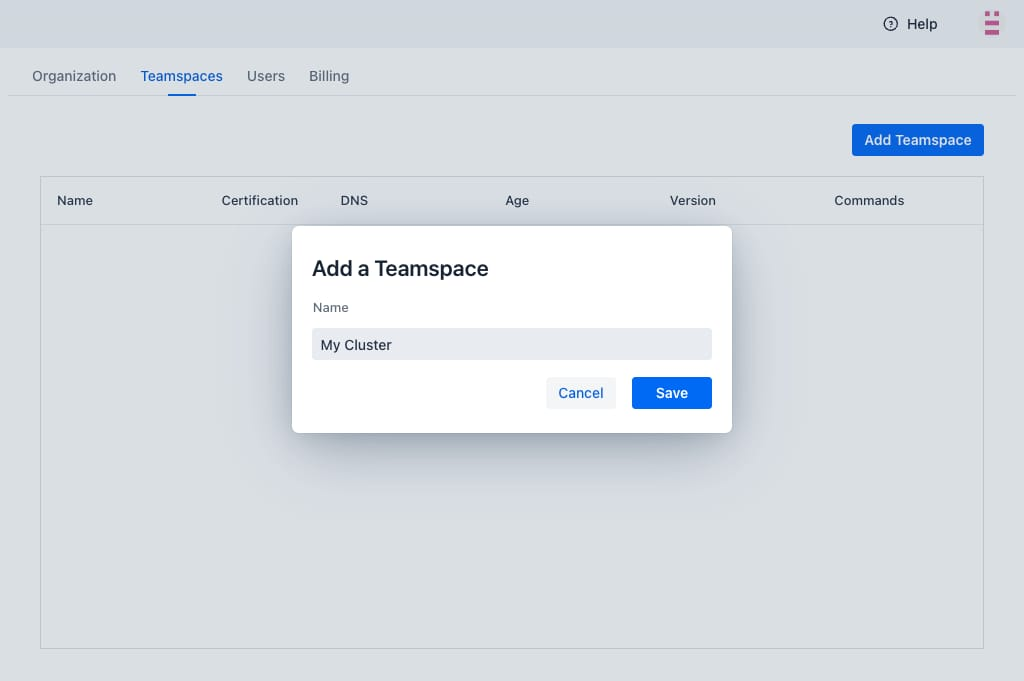
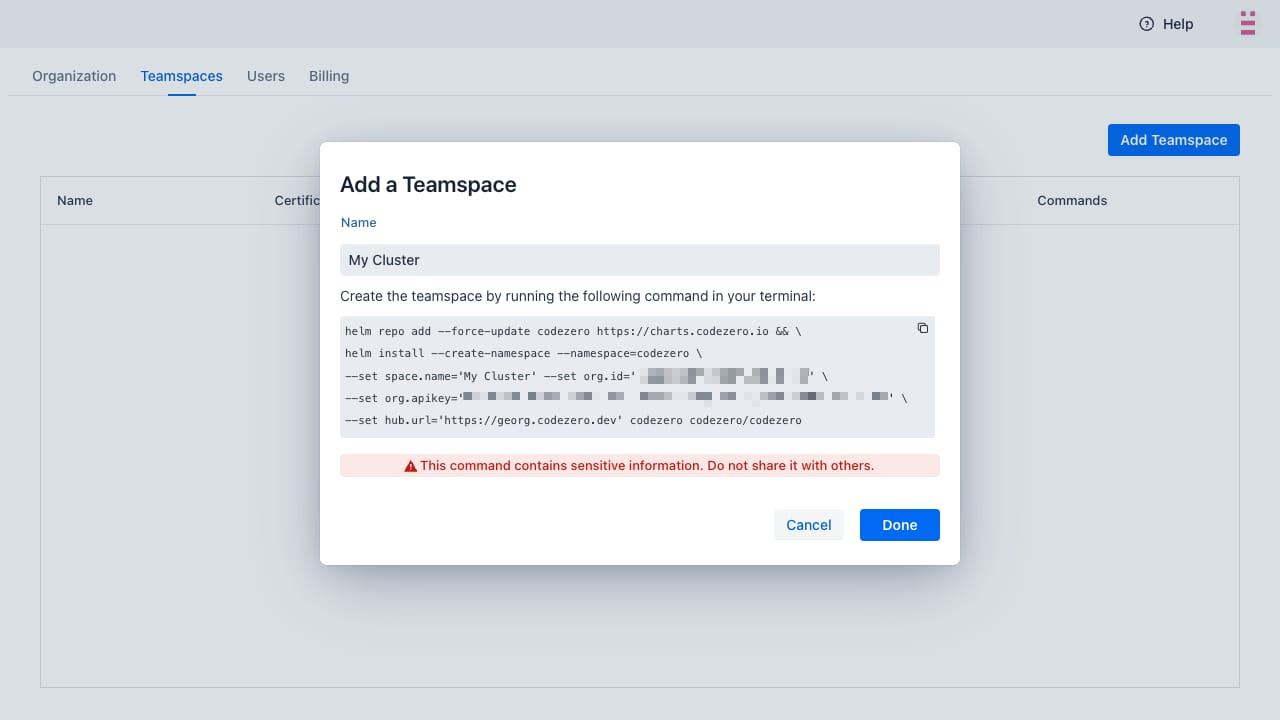
add release notes for 2.5.0

diff --git a/docusaurus.config.js b/docusaurus.config.js
@@ -52,7 +52,7 @@ const config = {
           lastVersion: "current",
           versions: {
             current: {
-              label: "v2.4",
+              label: "v2.5",
             },
           },
           routeBasePath: "/",

diff --git a/docs/guides/teamspace-setup.md b/docs/guides/teamspace-setup.md
@@ -12,17 +12,15 @@ Sign up or log in to the [Codezero Hub](https://hub.codezero.io). The onboarding
 
 The Hub allows you to register and certify Teamspaces. This is also where you can invite and administer members of the Teamspace. While the Hub provides a graphical user interface equivalent to the `czctl` command line tool, all services either run on your local machine or in the Kubernetes cluster.
 
-## Register a Teamspace on Hub
+## Install Codezero in your Cluster
 
-On the Profile menu, click on _Settings_ and then select _Teamspaces_. Click _Add Teamspace_ to name and register your Teamspace name.
+On the Profile menu, click on _Settings_ and then select _Teamspaces_. Click _Add Teamspace_ to create the installation command.
 
 ![Teamspace Create](./_media/ts-create.jpg)
 
-## Install Codezero in your Cluster
-
-After registering your Teamspace you need to install the _Codezero System_ onto a Kubernetes cluster. Click on _Helm Install_ to copy the Helm install command. This install command is unique to your cluster. It includes a one-time token that is exchanged with the Hub to certify the Teamspace.
-
-![Install Codezero](./_media/ts-helm.jpg)
+This install command contains your organization's API key. Please keep it confidential.
+It uses [Helm](https://helm.sh) to install the Codezero Space Agent. You can find the Helm charts on [GitHub](https://github.com/c6o/helm-charts).
+Additional annotations may be necessary; refer to the section on Load balancer requirements below.
 
 ### Load balancer requirements
 
@@ -46,7 +44,6 @@ import TabItem from '@theme/TabItem';
                 service.beta.kubernetes.io/aws-load-balancer-scheme: "internet-facing"
     ```
 
-
 </TabItem>
 <TabItem value="gke" label="GKE" default>
     Google Kubernetes Engine creates external Network Load Balancers by default.
@@ -55,8 +52,6 @@ import TabItem from '@theme/TabItem';
     Codezero will rely on the default behaviour provided by the cluster.
 </TabItem>
 </Tabs>
-
-
 
 ## Certification
 
@@ -74,46 +69,23 @@ Codezero may be removed from the Kubernetes cluster at any time. It is recommend
 
 To uninstall, run:
 
-```bash
-helm -n codezero uninstall codezero
-```
+    ```bash
+    helm -n codezero uninstall codezero
+    ```
 
 You can then go into the Hub and delete the Teamspace.
 
 ## Troubleshooting
 
-### Rotate Certificate
-
-Should you encounter any issues with the _Helm Install_, you cannot re-use the previously generated install string as the one-time token will have expired. To re-try, please:
-
-1. Run `helm uninstall -n codezero codezero`
-1. Select _Rotate Certificate_ from the commands menu
-1. Click on _Helm Install_ link when it appears and try again
-
-If you continue to encounter problems, please do not hesitate to reach out to us.
-
-![Teamspace Install](./_media/ts-rotate.jpg)
-
 ### Upgrade Cluster / Codezero Space Agent
 
 Occasionally a new Codezero release requires you to Update your Codezero Space Agent (also referred to as Upgrade your Cluster)
 
-To update your Codezero Space Agent, follow these steps:
+To update your Codezero Space Agent, run the following command:
 
-1. Log in to [Codezero Hub](https://hub.codezero.io).
-2. Select your Teamspace in the top-left corner
-3. Navigate to Settings > Teamspaces
-4. Click the
-   <svg xmlns="http://www.w3.org/2000/svg" class="icon icon-tabler icon-tabler-circle-arrow-up" width="24" height="24" viewBox="0 -2 24 24" stroke-width="2" stroke="currentColor" fill="none" stroke-linecap="round" stroke-linejoin="round">
-       <path stroke="none" d="M0 0h24v24H0z" fill="none"></path>
-       <path d="M3 12a9 9 0 1 0 18 0a9 9 0 0 0 -18 0"></path><path d="M12 8l-4 4"></path>
-       <path d="M12 8v8"></path>
-       <path d="M16 12l-4 -4"></path>
-   </svg>
-   icon next to the version number of your Teamspace to copy the Helm upgrade command.
-5. Run the command and then sign out and sign in again.
-
-![Upgrade Space Agent](../_media/upgrade-cluster.jpg)
+    ```bash
+    helm repo add --force-update codezero https://charts.codezero.io && helm upgrade --namespace=codezero codezero codezero/codezero`
+    ```
 
 ### Stuck _Waiting_ for DNS
 

diff --git a/docs/references/changelog.md b/docs/references/changelog.md
@@ -7,6 +7,13 @@ sidebar_position: 3
 We have a regular 2 week release cadence.
 NOTE: Please make sure that you update your Codezero Local Agent and Space Agent to the same version.
 
+## 2.5.0 [2024-06-25]
+
+* New Teamspace installation method to facilitate automated scripting of Teamspace deployments
+* Fix namespace filter in Service Catalog
+* Added security context to Router pods to satisfy [Restricted Pod Security policy](https://kubernetes.io/docs/concepts/security/pod-security-standards/#restricted)
+* Bug fixes and security updates
+
 ## 2.4.0 [2024-06-11]
 
 * Preview release of [Open Policy Agent integration](../guides/opa)
